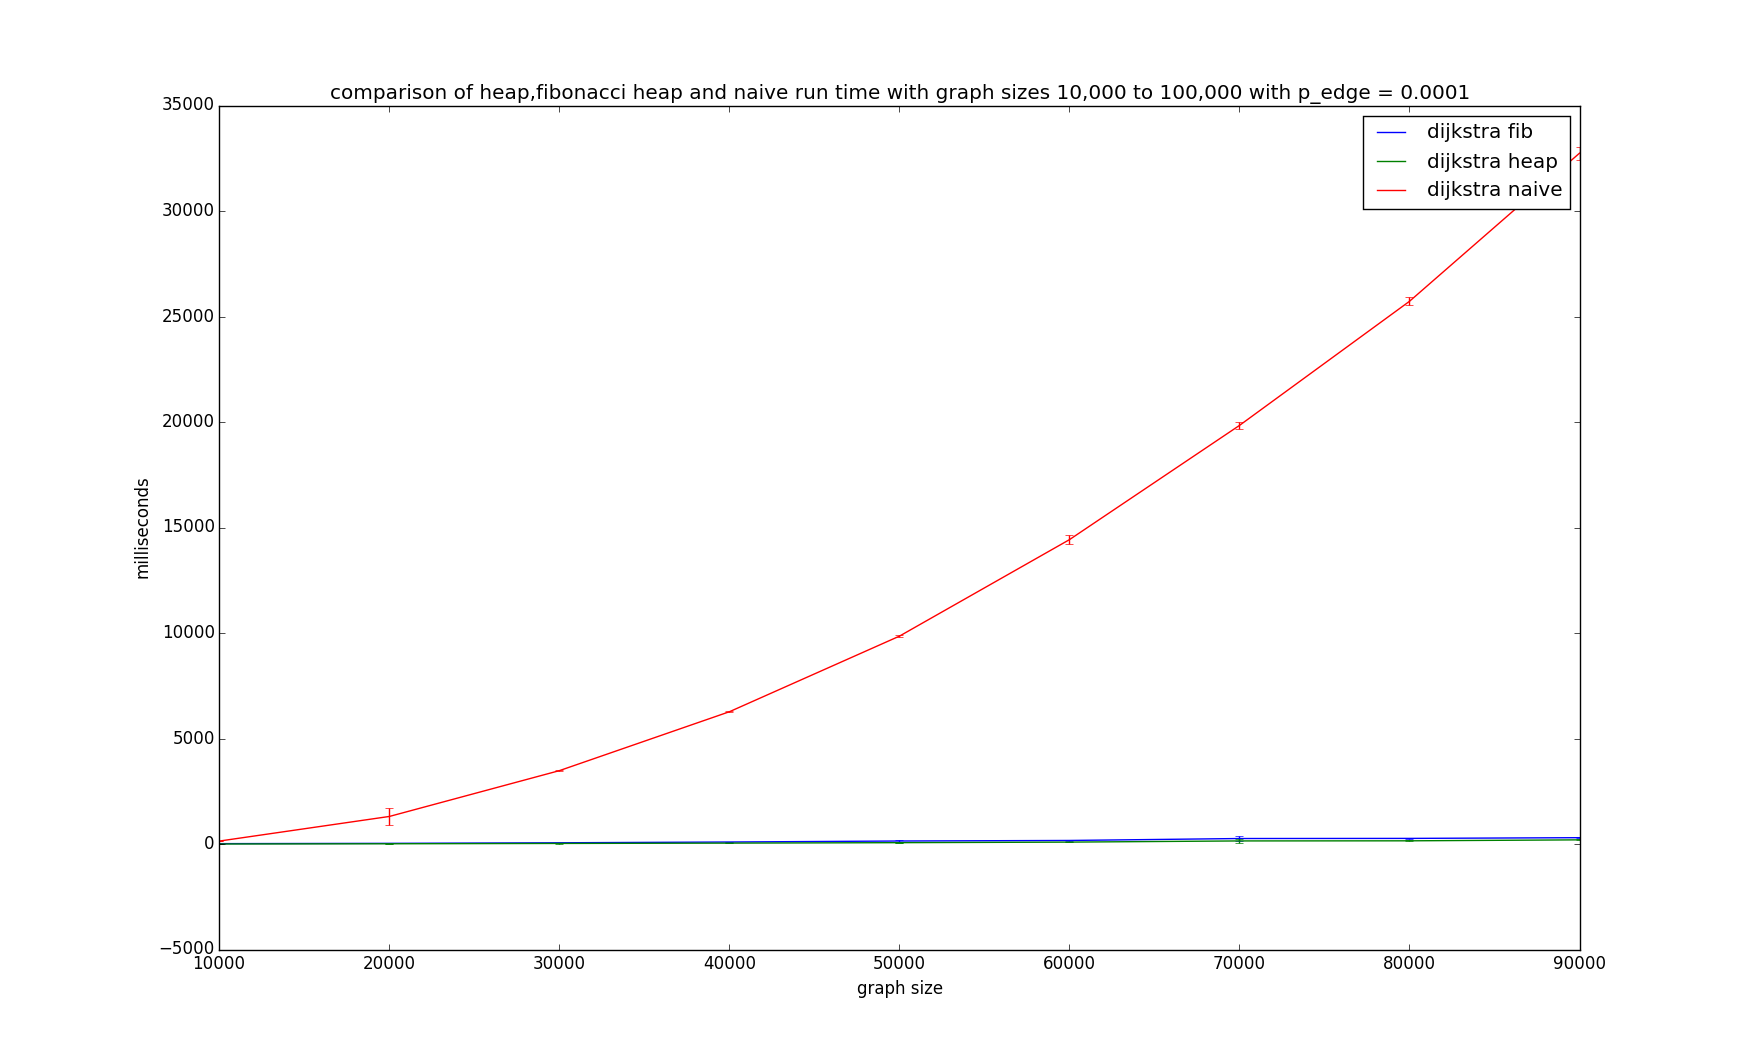
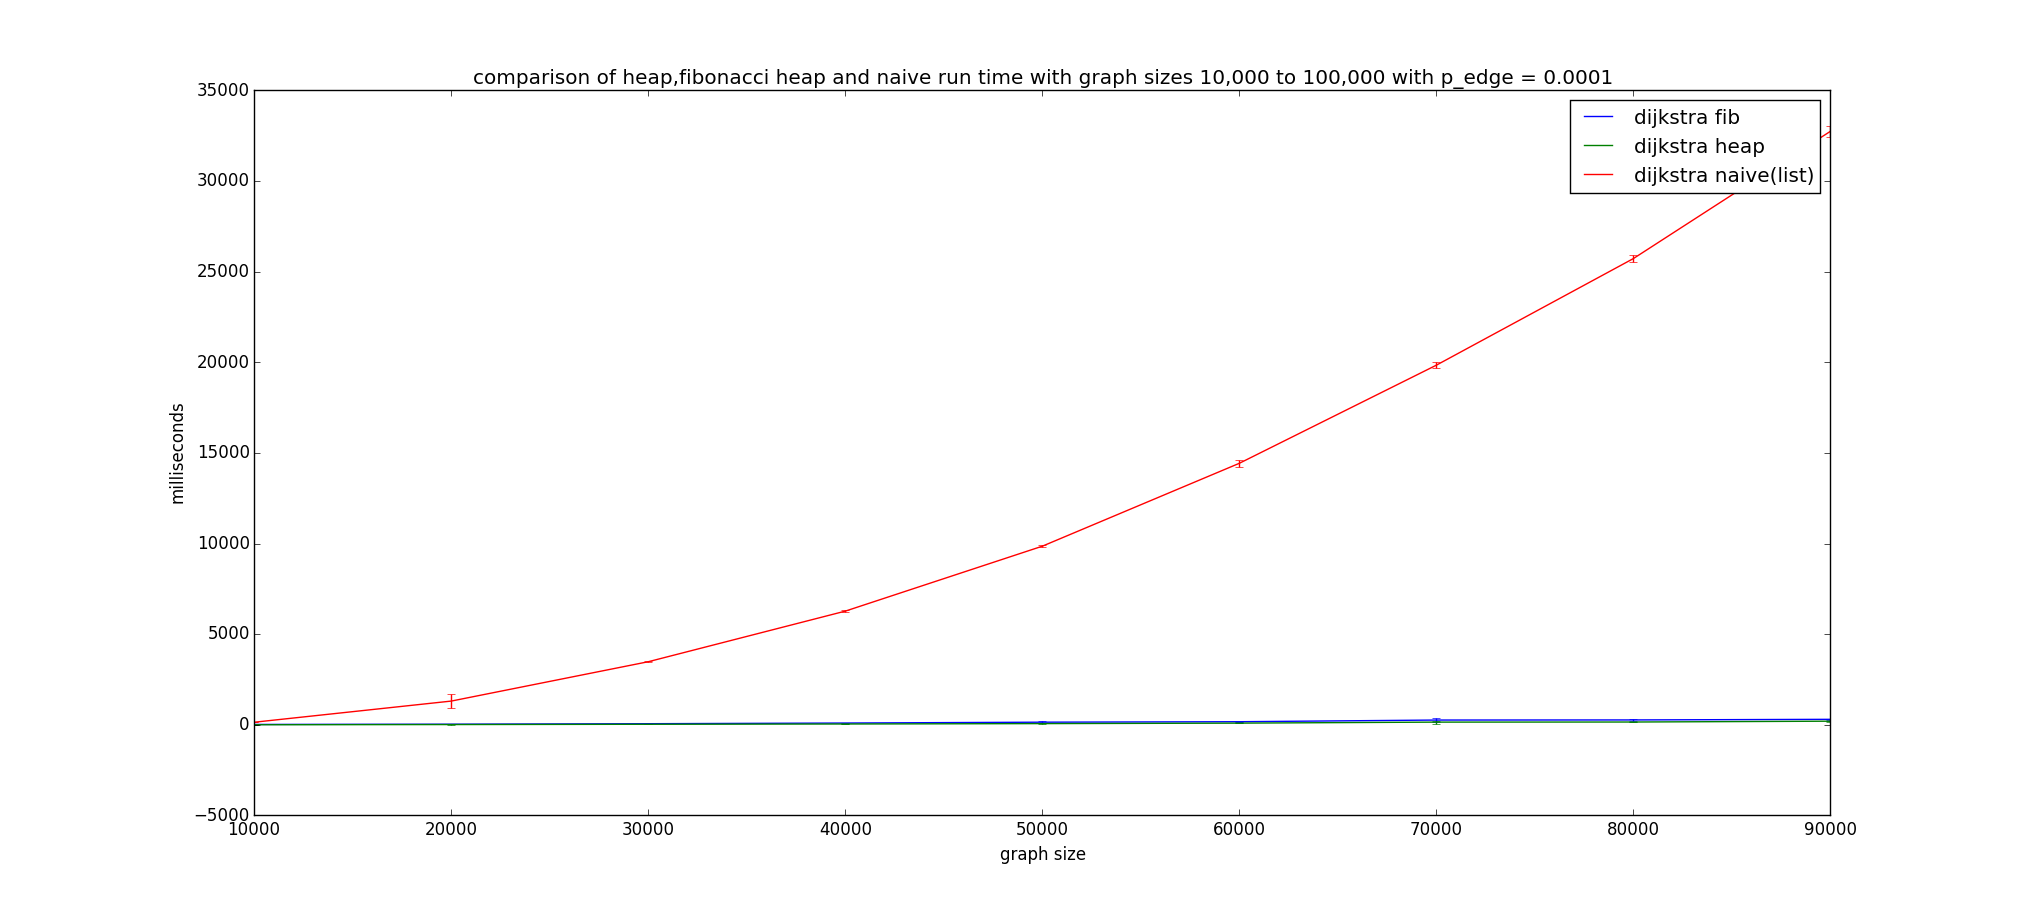
updated exp2 plot

diff --git a/data/exp2/exp2plot.py b/data/exp2/exp2plot.py
@@ -52,5 +52,5 @@ with open('exp2naive_results.csv','rt') as f:
 
 data = ([[fib_means,fib_err],[heap_means,heap_err],[naive_means,naive_err]],x)
 
-basic_plot(['dijkstra fib','dijkstra heap','dijkstra naive'],data,
+basic_plot(['dijkstra fib','dijkstra heap','dijkstra naive(list)'],data,
     'comparison of heap,fibonacci heap and naive run time with graph sizes 10,000 to 100,000 with p_edge = 0.0001','graph size')
